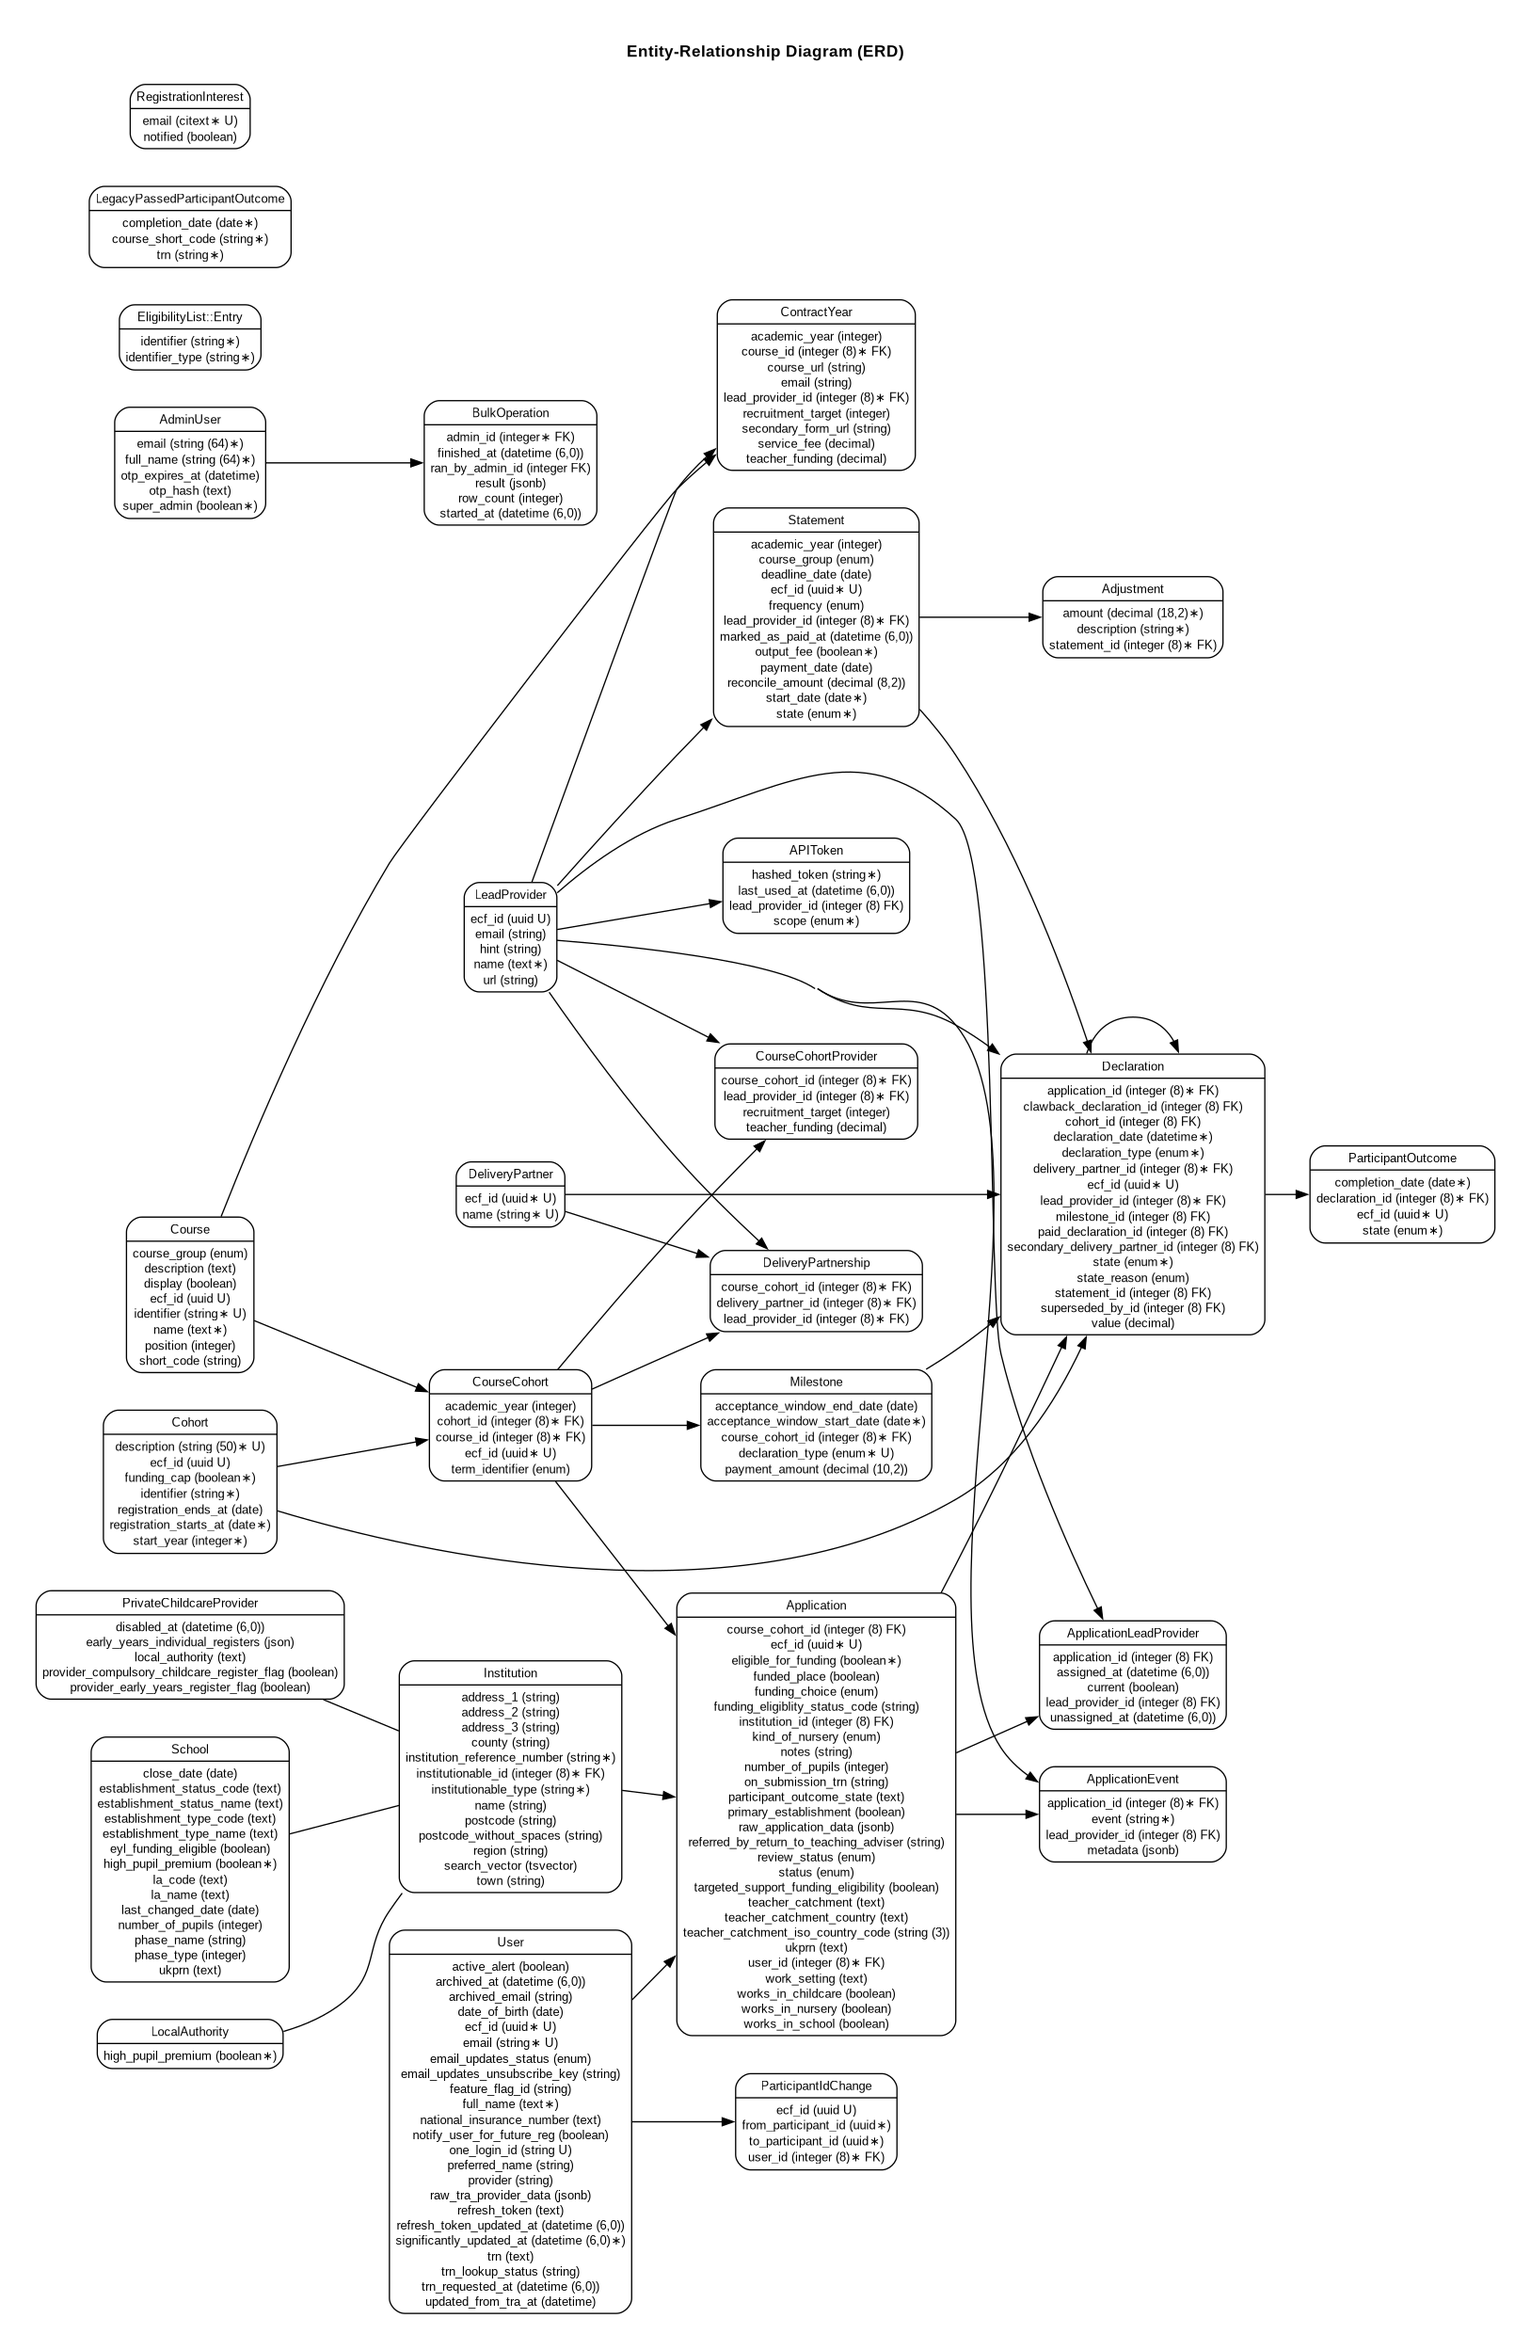
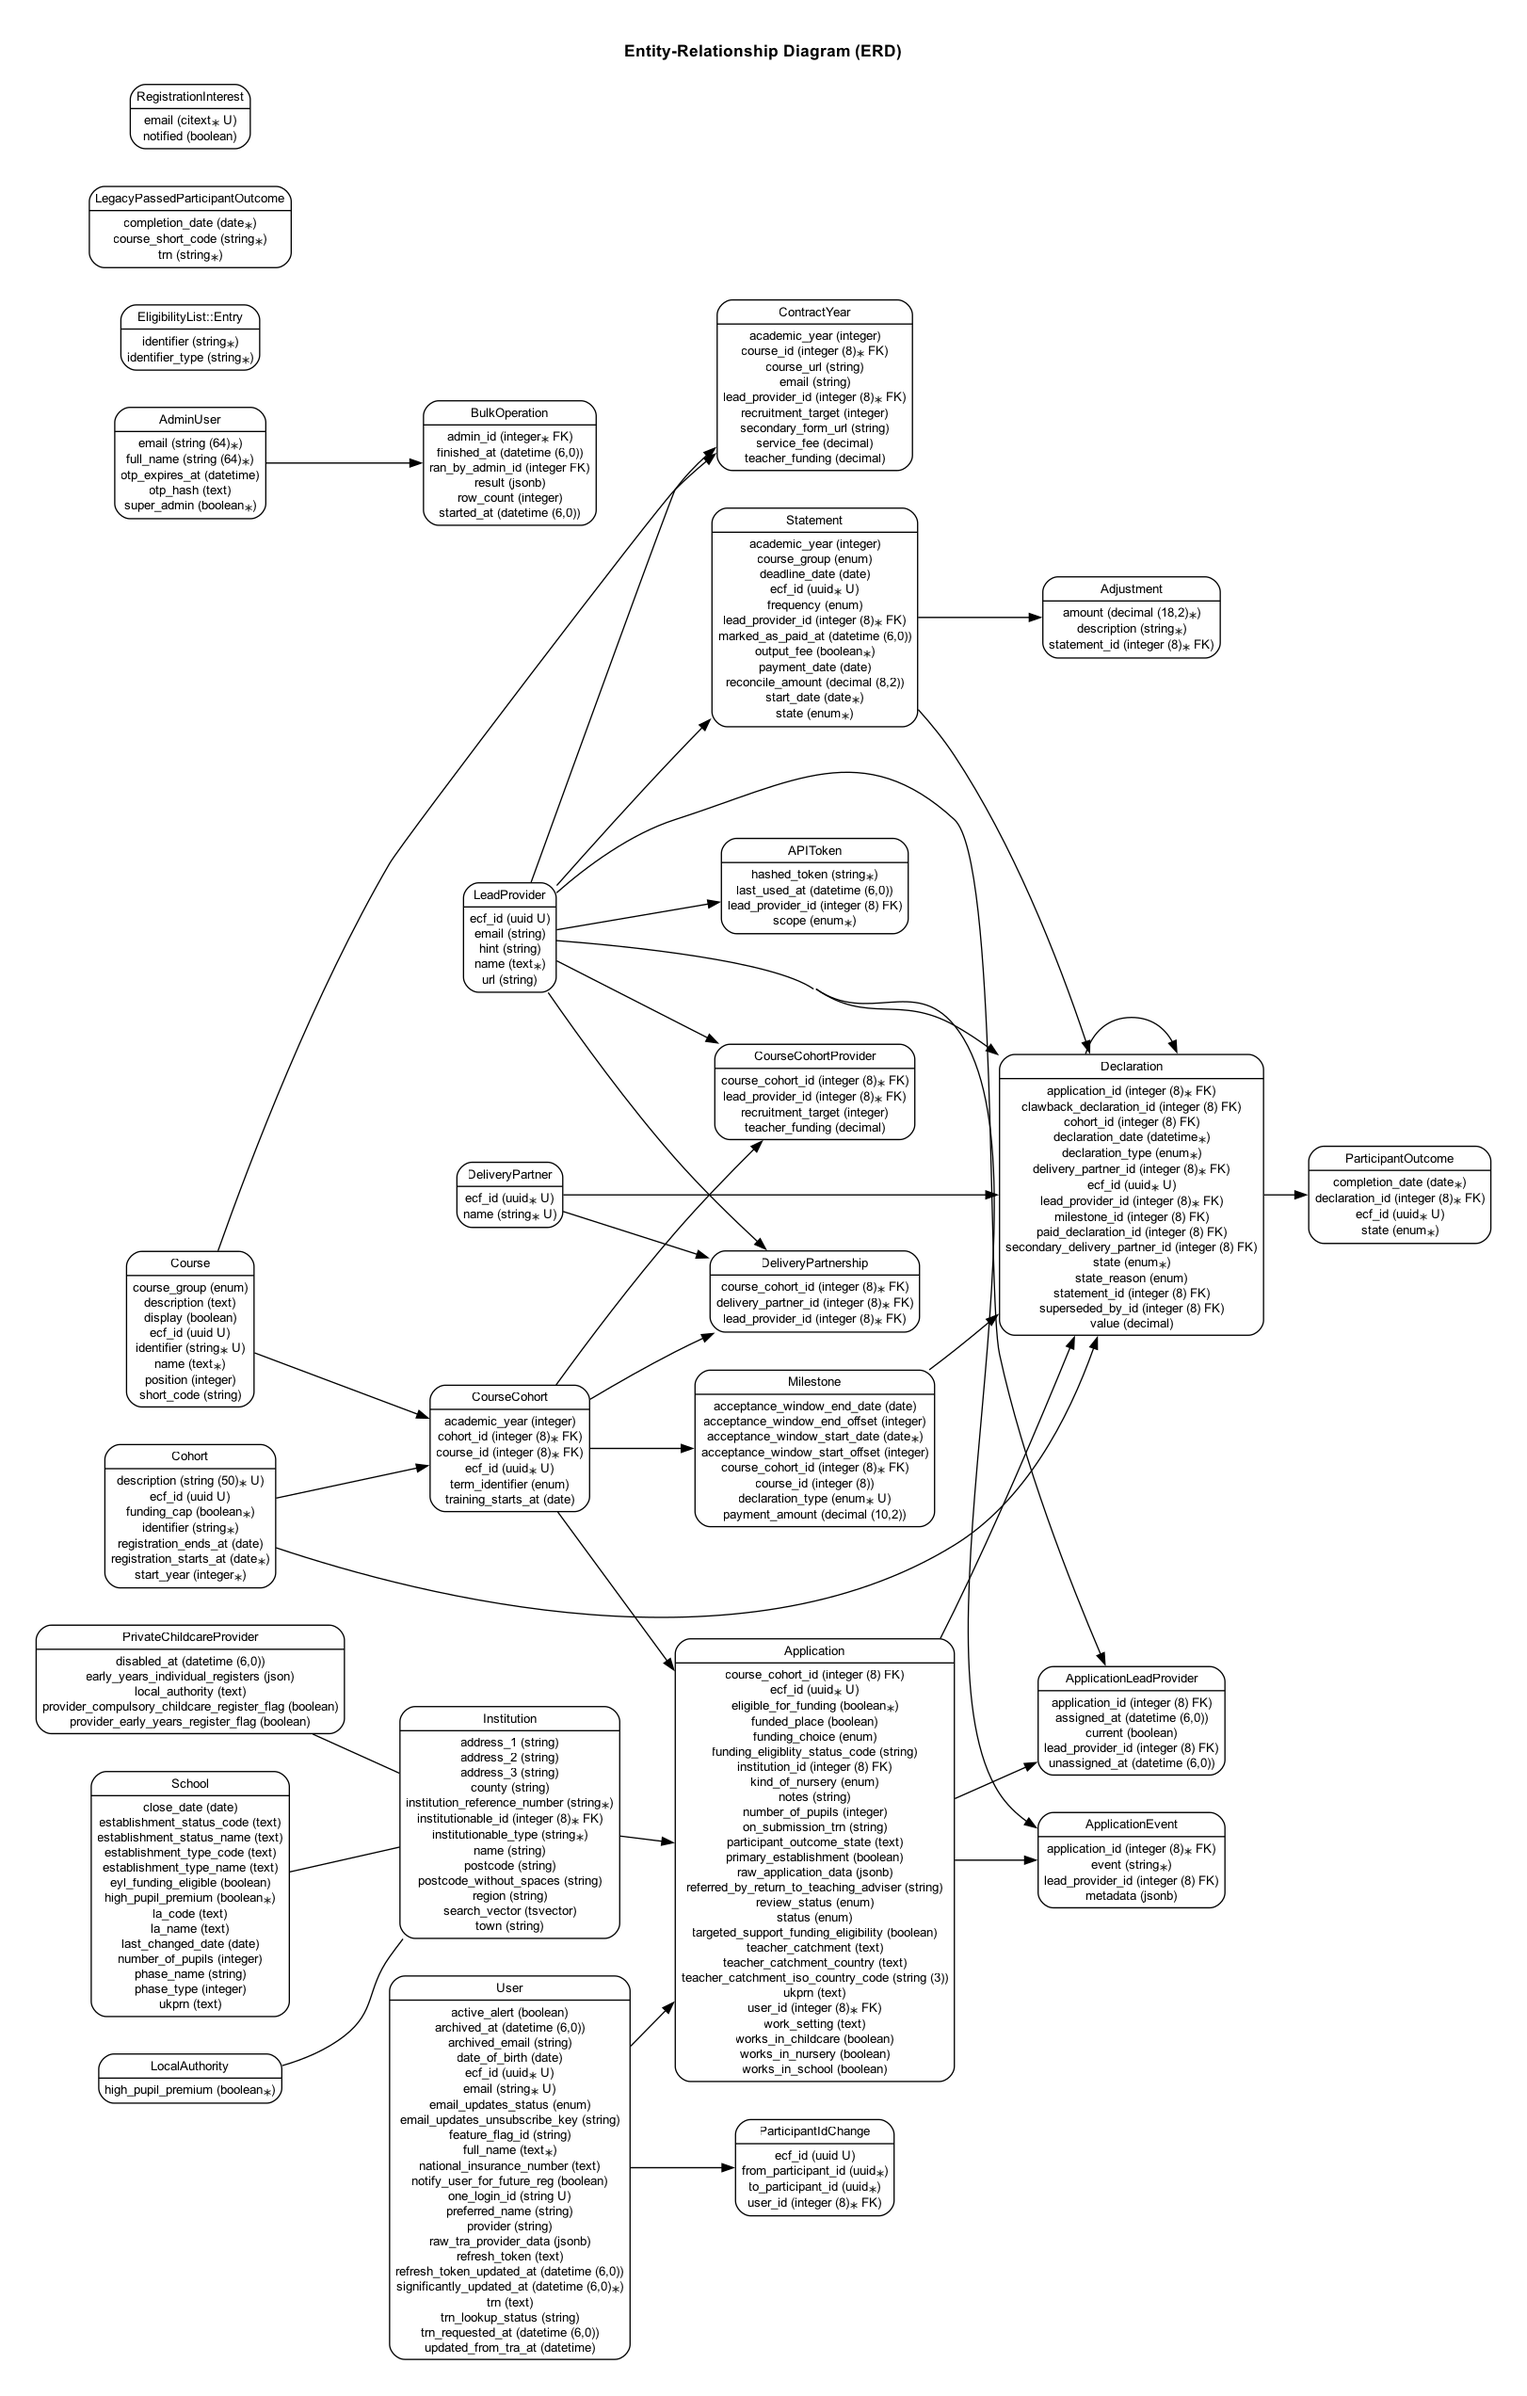
[703] Move milestones from course-cohort to course, use offsets for milestones and course-cohort training dates (#785)
### Context

Fixes DFE-Digital/teacher-training-entitlement-board#703

Move milestones from course-cohort to course in order to more simply
support declaration validation, and training start/end dates.

### Changes proposed in this pull request

This PR focuses on DB addiotions and a data migration task. Another PR
will address the model changes and removing redundant columns.

- Add offsets for milestones 
- Add course-cohort training_starts_at 
- Add course_id to milestones
- Create data migration rake task to migrate data

## Checklists:

### Data & Schema Changes

If this PR modifies data structures or validations, check the following:

- [X] Adds/removes model validations
- [X] Adds/removes database fields
- [ ] Adds/removes serializer fields

### Data Integrity

Does this change affects existing data:
- [X] Plan data migration

diff --git a/db/schema.rb b/db/schema.rb
@@ -10,7 +10,7 @@
 #
 # It's strongly recommended that you check this file into your version control system.
 
-ActiveRecord::Schema[8.1].define(version: 2026_09_09_125243) do
+ActiveRecord::Schema[8.1].define(version: 2026_09_11_101200) do
   # These are extensions that must be enabled in order to support this database
   enable_extension "btree_gin"
   enable_extension "citext"
@@ -230,6 +230,7 @@ ActiveRecord::Schema[8.1].define(version: 2026_09_09_125243) do
     t.datetime "created_at", null: false
     t.uuid "ecf_id", default: -> { "gen_random_uuid()" }, null: false
     t.enum "term_identifier", enum_type: "term_identifiers"
+    t.date "training_starts_at"
     t.datetime "updated_at", null: false
     t.index ["cohort_id"], name: "index_course_cohorts_on_cohort_id"
     t.index ["course_id", "cohort_id"], name: "index_course_cohorts_on_course_id_and_cohort_id", unique: true
@@ -406,14 +407,18 @@ ActiveRecord::Schema[8.1].define(version: 2026_09_09_125243) do
 
   create_table "milestones", force: :cascade do |t|
     t.date "acceptance_window_end_date"
+    t.integer "acceptance_window_end_offset"
     t.date "acceptance_window_start_date"
+    t.integer "acceptance_window_start_offset"
     t.bigint "course_cohort_id", null: false
+    t.bigint "course_id"
     t.datetime "created_at", null: false
     t.enum "declaration_type", null: false, enum_type: "declaration_types"
     t.decimal "payment_amount", precision: 10, scale: 2
     t.datetime "updated_at", null: false
     t.index ["course_cohort_id", "declaration_type"], name: "index_milestones_on_course_cohort_id_and_declaration_type", unique: true
     t.index ["course_cohort_id"], name: "index_milestones_on_course_cohort_id"
+    t.index ["course_id"], name: "index_milestones_on_course_id"
   end
 
   create_table "participant_id_changes", force: :cascade do |t|
@@ -604,6 +609,7 @@ ActiveRecord::Schema[8.1].define(version: 2026_09_09_125243) do
   add_foreign_key "delivery_partnerships", "delivery_partners"
   add_foreign_key "delivery_partnerships", "lead_providers"
   add_foreign_key "milestones", "course_cohorts"
+  add_foreign_key "milestones", "courses"
   add_foreign_key "participant_id_changes", "users"
   add_foreign_key "participant_outcome_api_requests", "participant_outcomes"
   add_foreign_key "participant_outcomes", "declarations"

diff --git a/db/migrate/20260911101000_add_course_milestone_offsets_and_course_cohort_training_start.rb b/db/migrate/20260911101000_add_course_milestone_offsets_and_course_cohort_training_start.rb
@@ -1,0 +1,10 @@
+class AddCourseMilestoneOffsetsAndCourseCohortTrainingStart < ActiveRecord::Migration[8.0]
+  disable_ddl_transaction!
+
+  def change
+    add_reference :milestones, :course, null: true, index: { algorithm: :concurrently }
+    add_column :milestones, :acceptance_window_start_offset, :integer
+    add_column :milestones, :acceptance_window_end_offset, :integer
+    add_column :course_cohorts, :training_starts_at, :date
+  end
+end

diff --git a/db/migrate/20260911101100_add_course_foreign_key_to_milestones.rb b/db/migrate/20260911101100_add_course_foreign_key_to_milestones.rb
@@ -1,0 +1,5 @@
+class AddCourseForeignKeyToMilestones < ActiveRecord::Migration[8.0]
+  def change
+    add_foreign_key :milestones, :courses, validate: false
+  end
+end

diff --git a/db/migrate/20260911101200_validate_course_foreign_key_on_milestones.rb b/db/migrate/20260911101200_validate_course_foreign_key_on_milestones.rb
@@ -1,0 +1,5 @@
+class ValidateCourseForeignKeyOnMilestones < ActiveRecord::Migration[8.0]
+  def change
+    validate_foreign_key :milestones, :courses
+  end
+end

diff --git a/documentation/domain-model.md b/documentation/domain-model.md
@@ -77,6 +77,7 @@ erDiagram
     uuid ecf_id
     enum term_identifier
     datetime updated_at
+    date training_starts_at
   }
   CourseCohort }o--|| Course : belongs_to
   CourseCohort }o--|| Cohort : belongs_to
